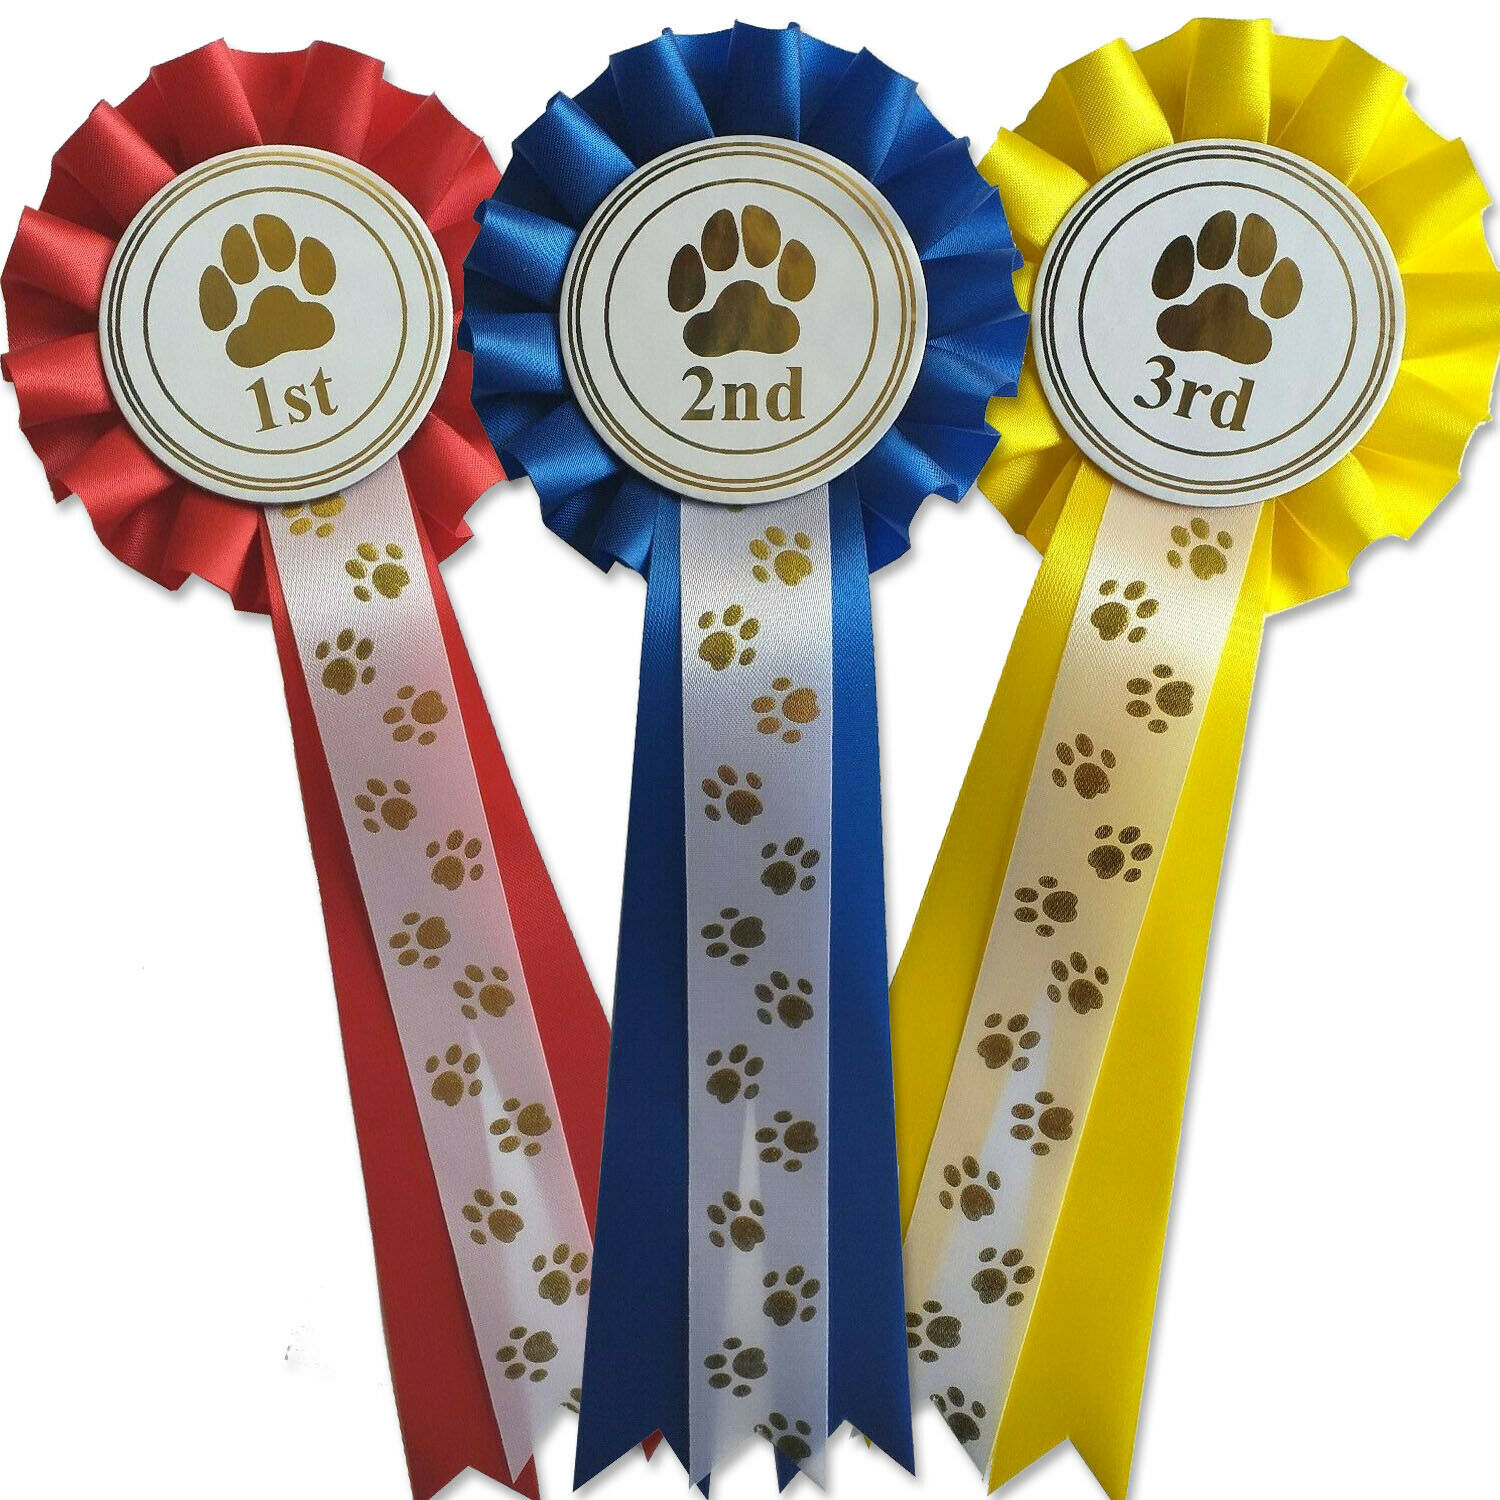
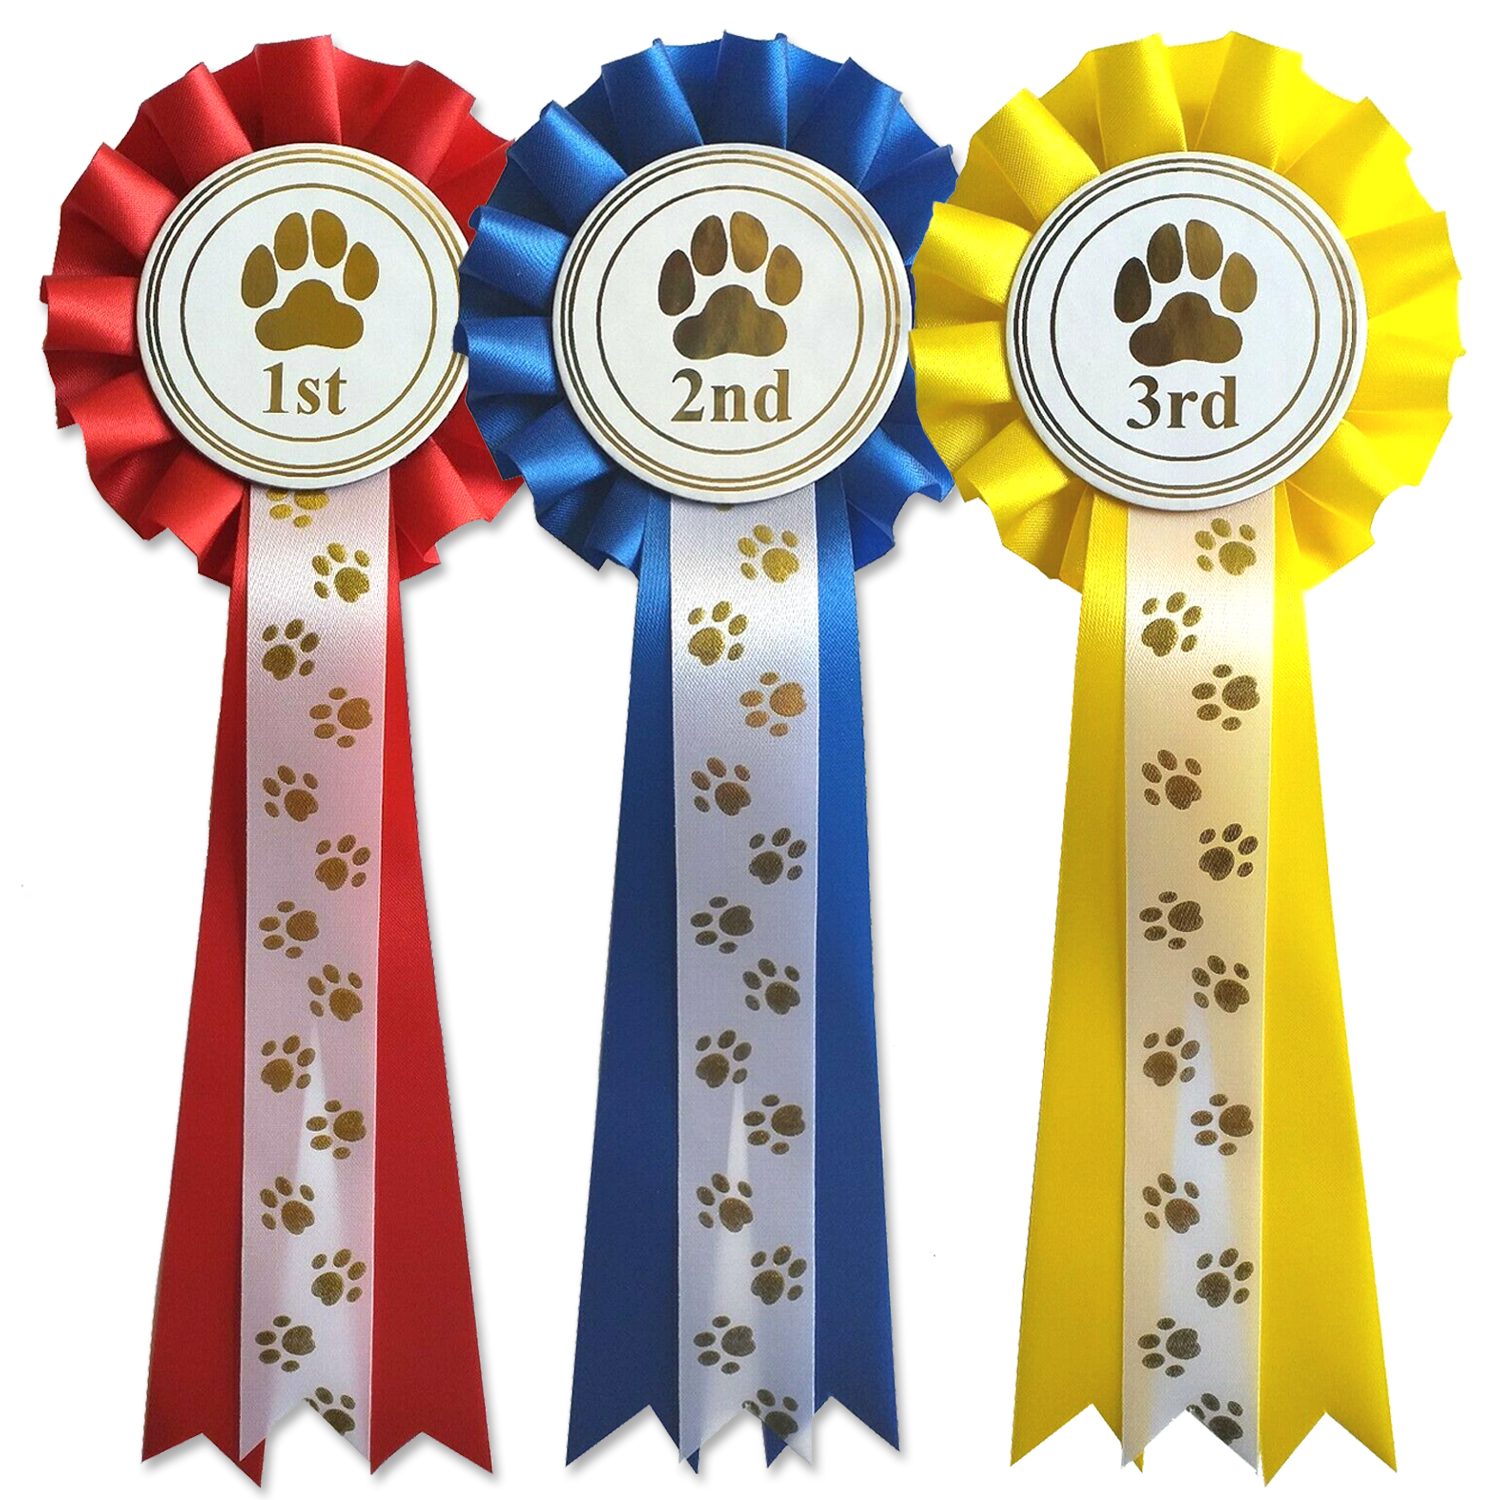
image change

diff --git a/products/template_listing.html b/products/template_listing.html
@@ -278,7 +278,7 @@ $(document).ready(function() {
   <div class="left-column">
     <img data-image="black" src="" alt="">
     <img data-image="blue" src="images/blue.png" alt="">
-    <img data-image="red" class="active" src="grant.jpg" style="width:554px;height:520px;" alt="1st_to_6th_3_tier_dog_rosettes">
+    <img data-image="red" class="active" src="1st_to_3rd_1_tier_dog_rosettes.jpg" style="width:554px;height:520px;" alt="1st_to_3rd_1_tier_dog_rosettes">
   </div>
  
  
